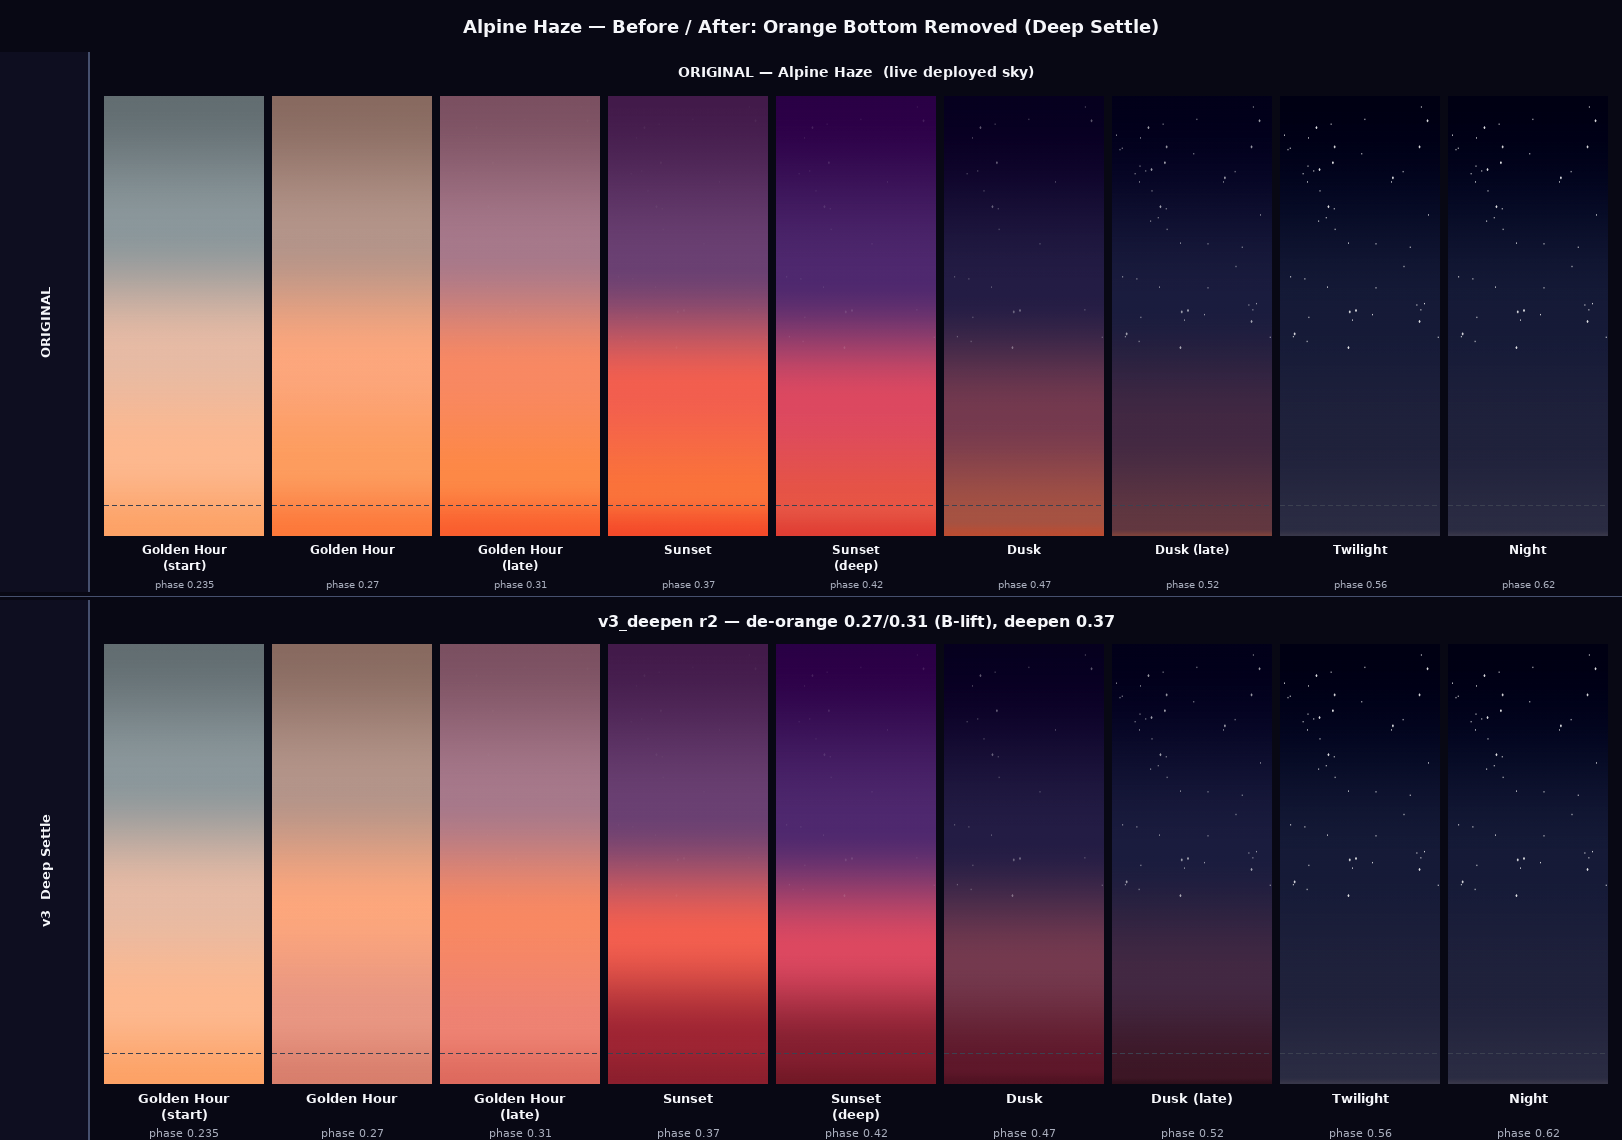
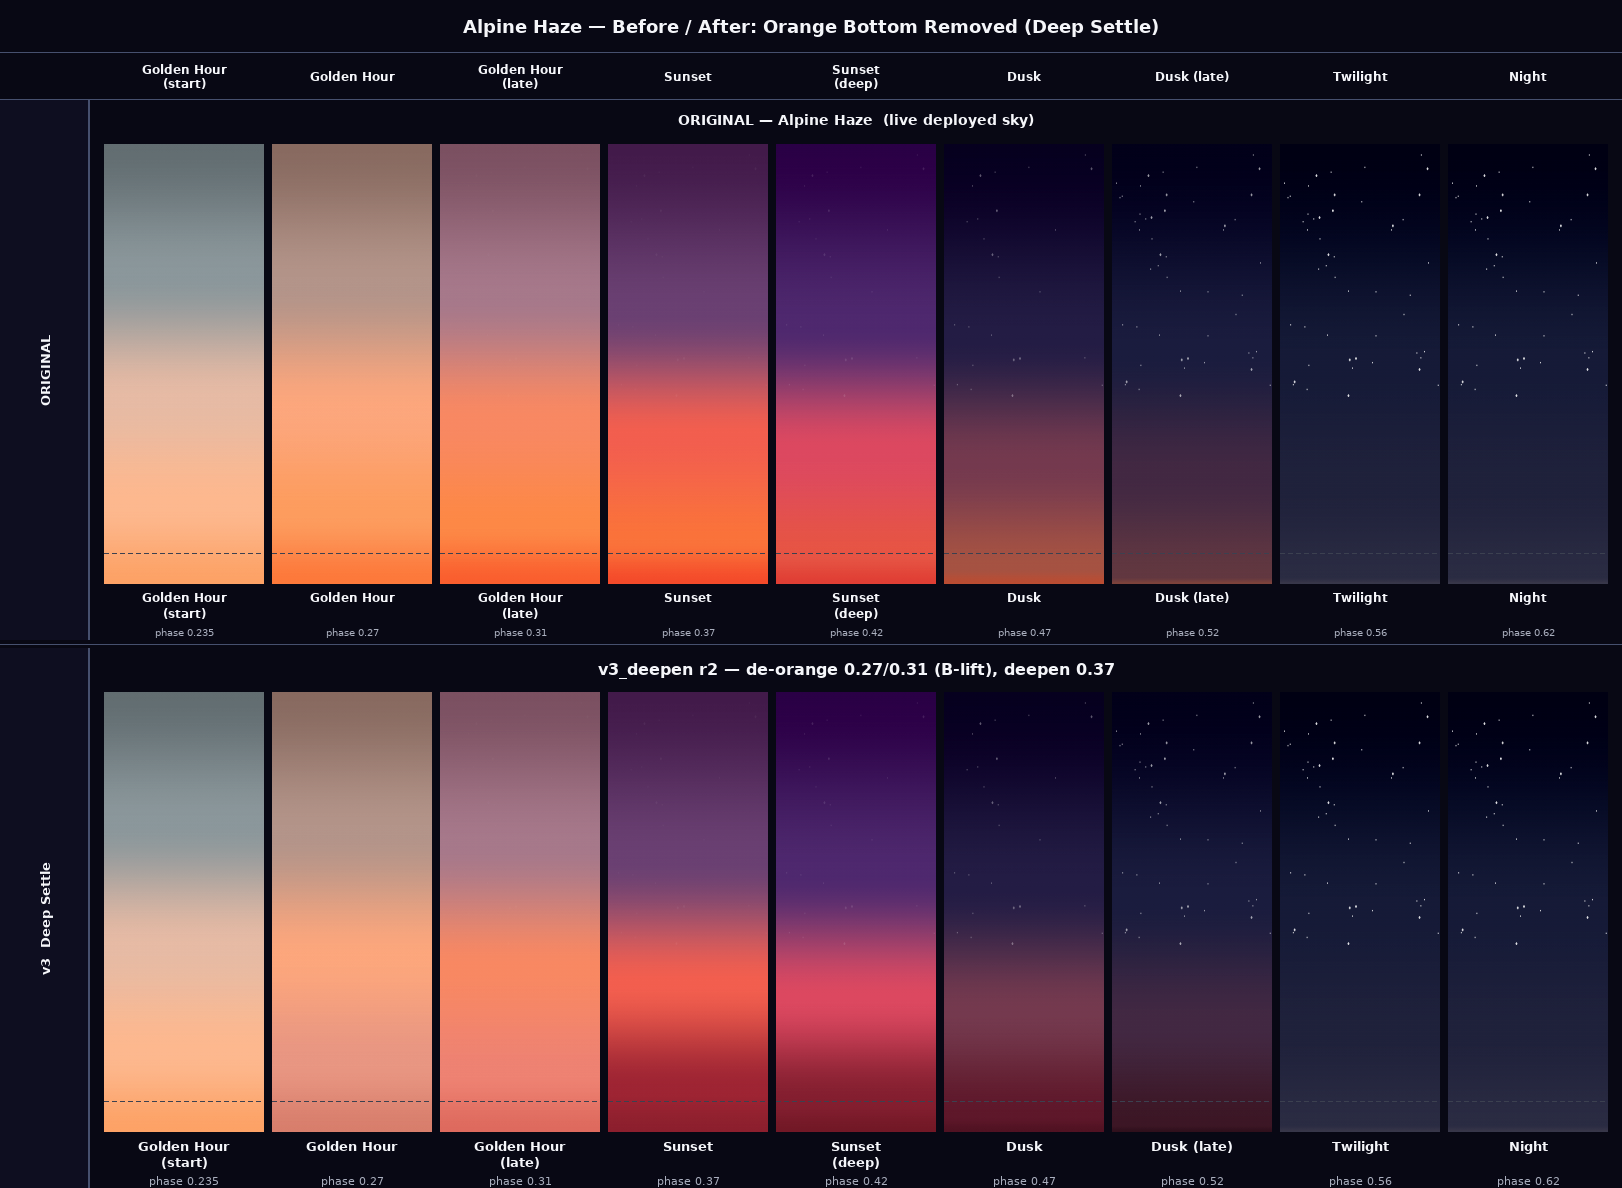
Sky pick showcase: add column phase labels header strip
Claude-Session: https://claude.ai/code/session_015DxSDkCugqKBGykq6WeVnV

diff --git a/tools/render_sky_showcase_pick.py b/tools/render_sky_showcase_pick.py
@@ -55,6 +55,7 @@ GROUND_L = (60, 65, 80)
 LABEL_W      = 90
 INTER_GAP    = 8
 MAIN_TITLE_H = 52
+COL_HDR_H    = 48
 
 CONCEPTS = [
     ("ORIGINAL",         None),
@@ -102,7 +103,7 @@ def _render_original(f_title, f_label, f_phase):
 
 def main():
     canvas_w = LABEL_W + ROW_W
-    canvas_h = MAIN_TITLE_H + len(CONCEPTS) * ROW_H + (len(CONCEPTS) - 1) * INTER_GAP
+    canvas_h = MAIN_TITLE_H + COL_HDR_H + len(CONCEPTS) * ROW_H + (len(CONCEPTS) - 1) * INTER_GAP
     canvas = pygame.Surface((canvas_w, canvas_h))
     canvas.fill(BG)
 
@@ -118,10 +119,25 @@ def main():
     canvas.blit(mt, (canvas_w // 2 - mt.get_width() // 2,
                      MAIN_TITLE_H // 2 - mt.get_height() // 2))
 
+    # Column header strip
+    col_hdr_y = MAIN_TITLE_H
+    pygame.draw.line(canvas, ACCENT, (0, col_hdr_y), (canvas_w, col_hdr_y), 1)
+    for i, (phase, label) in enumerate(SAMPLES):
+        cx = LABEL_W + MARGIN + i * (PANEL_W + GAP) + PANEL_W // 2
+        lines = _wrap(label)
+        line_h = f_label.get_height()
+        total_h = len(lines) * line_h
+        base_y = col_hdr_y + (COL_HDR_H - total_h) // 2
+        for j, line in enumerate(lines):
+            s = f_label.render(line, True, TEXT_HI)
+            canvas.blit(s, (cx - s.get_width() // 2, base_y + j * line_h))
+    pygame.draw.line(canvas, ACCENT, (0, col_hdr_y + COL_HDR_H - 1),
+                     (canvas_w, col_hdr_y + COL_HDR_H - 1), 1)
+
     base_dir = os.path.join(_ROOT, "docs", "sky_transition")
 
     for i, (name, rel_path) in enumerate(CONCEPTS):
-        y = MAIN_TITLE_H + i * (ROW_H + INTER_GAP)
+        y = MAIN_TITLE_H + COL_HDR_H + i * (ROW_H + INTER_GAP)
 
         label_surf = pygame.Surface((LABEL_W, ROW_H))
         label_surf.fill(BG_LABEL)
@@ -152,7 +168,7 @@ def main():
     print(f"wrote {out}  ({img.width}×{img.height})")
 
     for i, (name, _) in enumerate(CONCEPTS):
-        row_y = MAIN_TITLE_H + i * (ROW_H + INTER_GAP) + HEADER + PANEL_H // 2
+        row_y = MAIN_TITLE_H + COL_HDR_H + i * (ROW_H + INTER_GAP) + HEADER + PANEL_H // 2
         mid_x = LABEL_W + MARGIN + 4 * (PANEL_W + GAP) + PANEL_W // 2
         px = img.getpixel((mid_x, row_y))
         print(f"  {name:20s} panel4 mid: {px}")
